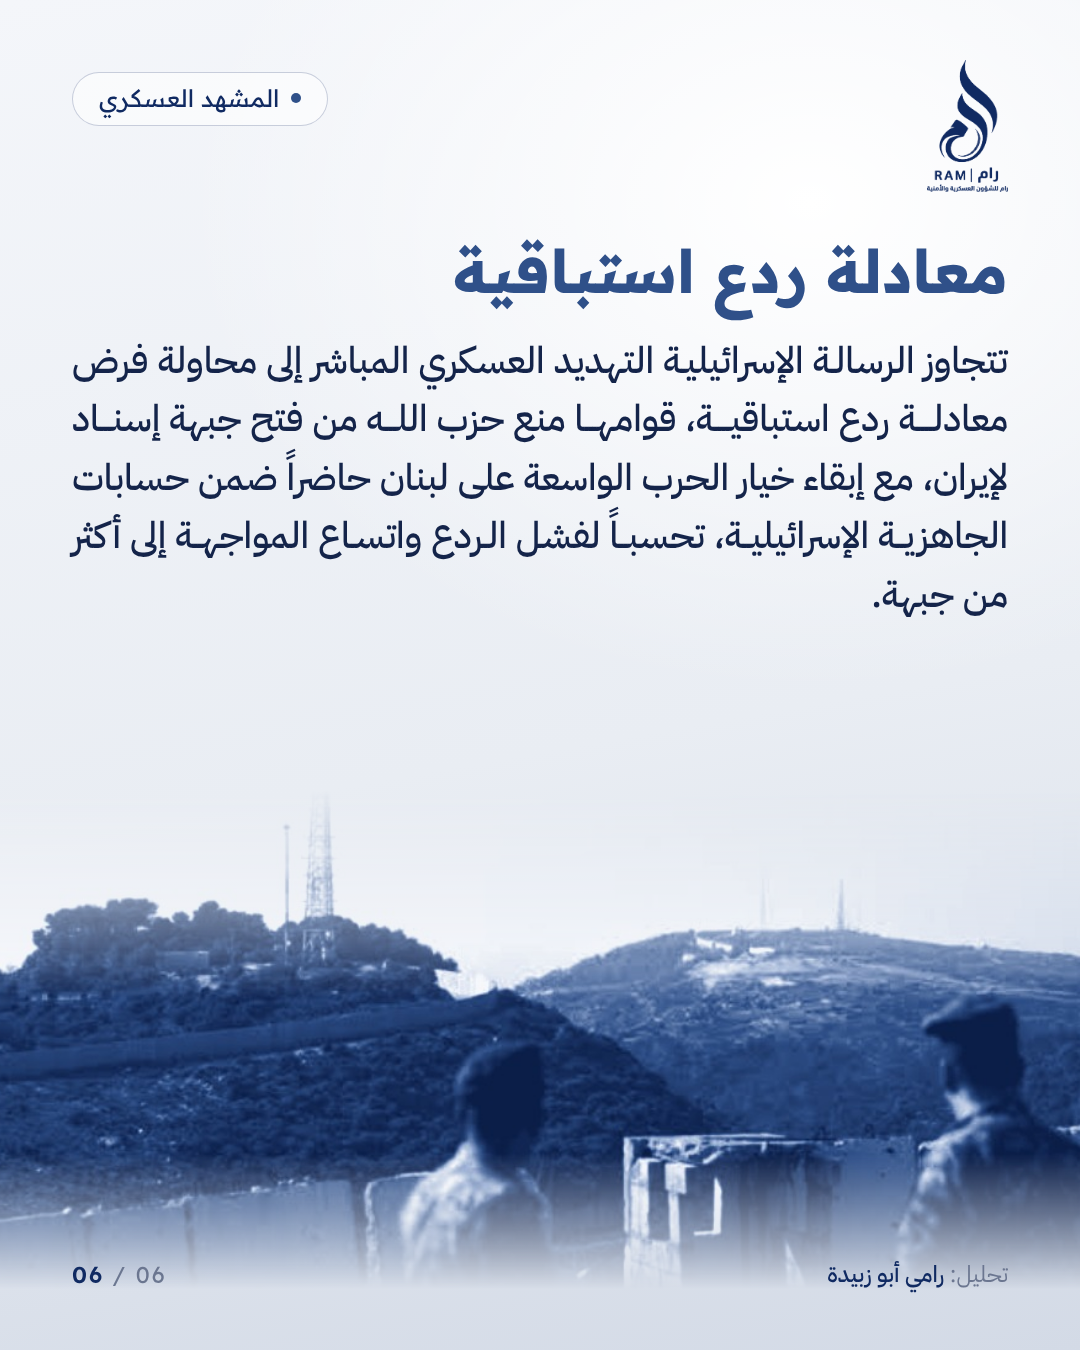
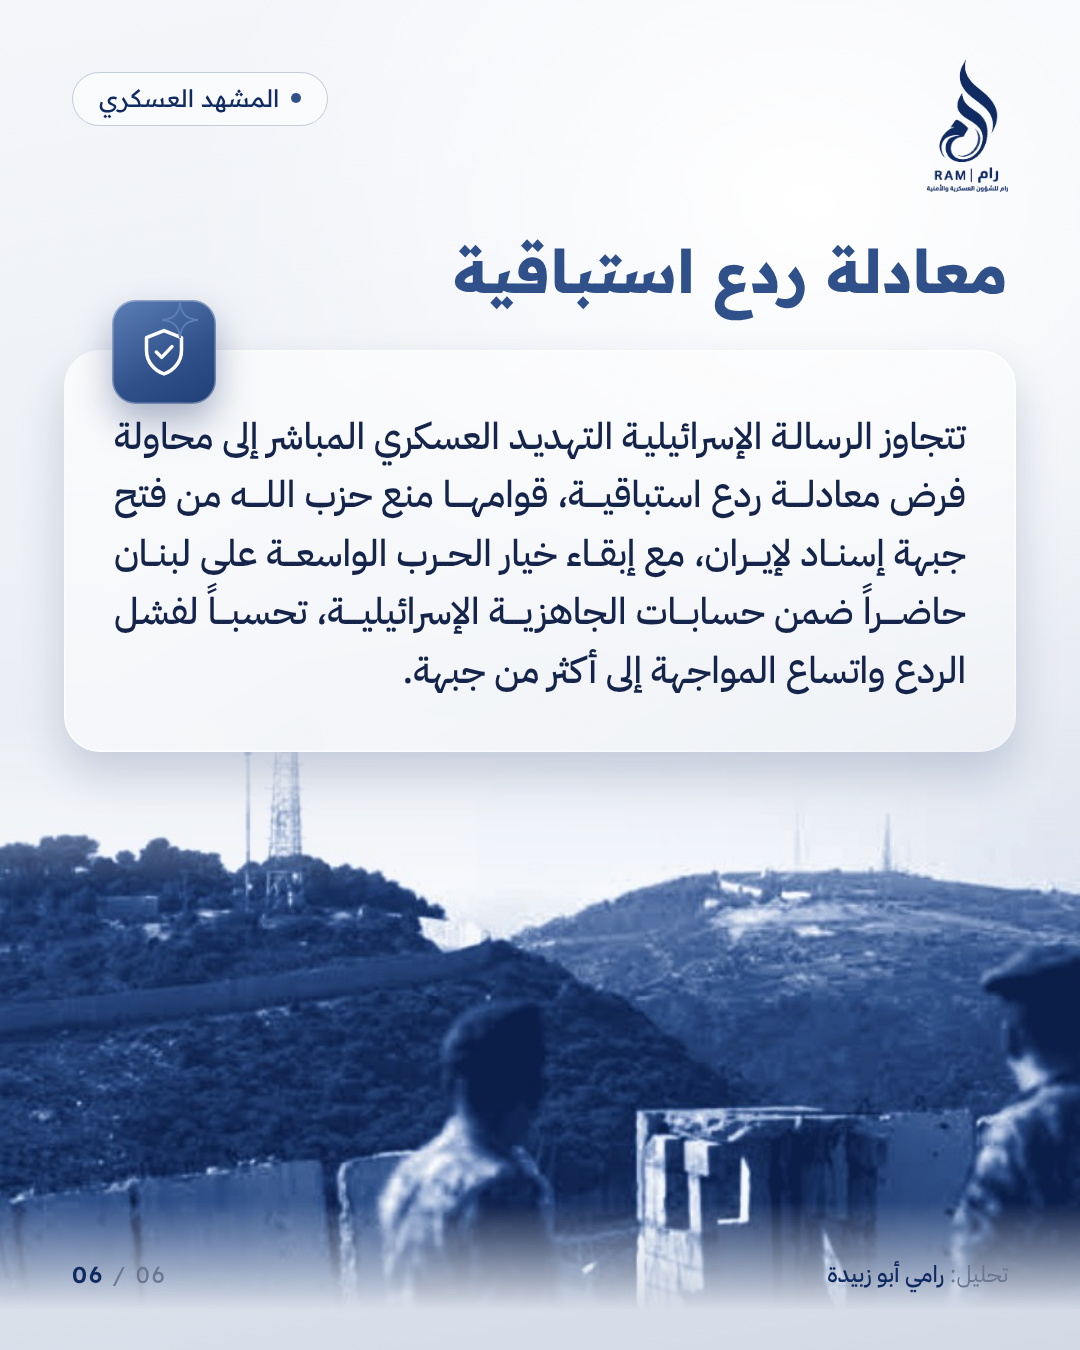
Glass-card layouts for slides 2-6 with per-slide variations
Claude-Session: https://claude.ai/code/session_01EW5L56NuYcnMJVgEDoh2db

Changed region(s): [[0.0, 0.56, 1.0, 0.9644], [0.0611, 0.2178, 0.9472, 0.5289]]

diff --git a/carousel/carousel.html b/carousel/carousel.html
@@ -221,35 +221,17 @@ body{background:#333;font-family:var(--b);color:#fff;display:flex;flex-direction
 
 <!-- ============ 2. ============ -->
 <section class="slide light" id="s2">
-  <div class="photo" style="height:520px;background-image:url(photos/port-light.jpg);background-position:center 60%"></div>
+  <div class="photo" style="height:860px;background-image:url(photos/port-light.jpg);background-position:center 60%;-webkit-mask:linear-gradient(180deg,transparent 0%,#000 30%,#000 82%,transparent 100%);mask:linear-gradient(180deg,transparent 0%,#000 30%,#000 82%,transparent 100%);"></div>
   <img class="logo" src="assets/logo-navy-full.png" alt="رام">
   <div class="tag"><i></i>المشهد العسكري</div>
-  <div class="art">
+  <div class="gcard" style="top:250px">
     <div class="atitle">ماذا كشفت «معاريف»؟</div>
     <div class="jp">كشفت صحيفة «معاريف» العبرية أن جيش الاحتلال أعدّ خططاً لاحتلال مدن لبنانية، من بينها صور وصيدا والنبطية، وفرض حصار بحري على ميناءَي بيروت وطرابلس، ما يعكس مستوى متقدماً من الاستعداد العسكري لسيناريوهات تصعيد واسعة قد تمتد إلى الجبهة اللبنانية.</div>
     <div class="hook">فهل هي خطط للتنفيذ؟</div>
+    <div class="gbadge" style="left:44px;bottom:-48px"><svg viewBox="0 0 24 24" fill="none" stroke="#fff" stroke-width="1.5" stroke-linecap="round" stroke-linejoin="round"><path d="M4 5.5h12.5v13H6a2 2 0 0 1-2-2z M16.5 9H20v7.5a2 2 0 0 1-2 2h-1.5 M7 9h6.5 M7 12h6.5 M7 15h4"/></svg></div>
   </div>
-  <div class="foot">
-    <div>تحليل: <b>رامي أبو زبيدة</b></div>
-    <div class="pg"><em>02</em> / 06</div>
-  </div>
-</section>
-
-<!-- ============ 2-تجربة: لوح زجاجي ============ -->
-<section class="slide light" id="s2t">
-  <div class="photo" style="height:860px;background-image:url(photos/port-light.jpg);background-position:center 60%;-webkit-mask:linear-gradient(180deg,transparent 0%,#000 30%,#000 82%,transparent 100%);mask:linear-gradient(180deg,transparent 0%,#000 30%,#000 82%,transparent 100%)"></div>
-  <img class="logo" src="assets/logo-navy-full.png" alt="رام">
-  <div class="tag"><i></i>المشهد العسكري</div>
-
-  <div class="gcard">
-    <div class="atitle">ماذا كشفت «معاريف»؟</div>
-    <div class="jp">كشفت صحيفة «معاريف» العبرية أن جيش الاحتلال أعدّ خططاً لاحتلال مدن لبنانية، من بينها صور وصيدا والنبطية، وفرض حصار بحري على ميناءَي بيروت وطرابلس، ما يعكس مستوى متقدماً من الاستعداد العسكري لسيناريوهات تصعيد واسعة قد تمتد إلى الجبهة اللبنانية.</div>
-    <div class="hook">فهل هي خطط للتنفيذ؟</div>
-    <div class="gbadge"><svg viewBox="0 0 24 24"><path d="M4 5.5h12.5v13H6a2 2 0 0 1-2-2z M16.5 9H20v7.5a2 2 0 0 1-2 2h-1.5 M7 9h6.5 M7 12h6.5 M7 15h4" fill="none" stroke="#fff" stroke-width="1.5" stroke-linecap="round" stroke-linejoin="round"/></svg></div>
-  </div>
-  <svg class="spark2" style="left:150px;top:196px" width="54" height="54" viewBox="0 0 40 40"><path d="M20 2 C21 14 26 19 38 20 C26 21 21 26 20 38 C19 26 14 21 2 20 C14 19 19 14 20 2Z" fill="none" stroke="#5D7FB8" stroke-width="1.8"/></svg>
-  <svg class="spark2" style="left:118px;top:244px" width="26" height="26" viewBox="0 0 40 40"><path d="M20 2 C21 14 26 19 38 20 C26 21 21 26 20 38 C19 26 14 21 2 20 C14 19 19 14 20 2Z" fill="none" stroke="#5D7FB8" stroke-width="2.2"/></svg>
-
+<svg class="spark2" style="left:150px;top:196px" width="52" height="52" viewBox="0 0 40 40"><path d="M20 2 C21 14 26 19 38 20 C26 21 21 26 20 38 C19 26 14 21 2 20 C14 19 19 14 20 2Z" fill="none" stroke="#5D7FB8" stroke-width="1.9"/></svg>
+<svg class="spark2" style="left:118px;top:244px" width="26" height="26" viewBox="0 0 40 40"><path d="M20 2 C21 14 26 19 38 20 C26 21 21 26 20 38 C19 26 14 21 2 20 C14 19 19 14 20 2Z" fill="none" stroke="#5D7FB8" stroke-width="1.9"/></svg>
   <div class="foot">
     <div>تحليل: <b>رامي أبو زبيدة</b></div>
     <div class="pg"><em>02</em> / 06</div>
@@ -258,14 +240,16 @@ body{background:#333;font-family:var(--b);color:#fff;display:flex;flex-direction
 
 <!-- ============ 3. ============ -->
 <section class="slide light" id="s3">
-  <div class="photo" style="height:500px;background-image:url(photos/warroom-light.jpg);background-position:center 30%"></div>
+  <div class="photo" style="height:640px;background-image:url(photos/warroom-light.jpg);background-position:center 30%;-webkit-mask:linear-gradient(180deg,transparent 0%,#000 30%,#000 82%,transparent 100%);mask:linear-gradient(180deg,transparent 0%,#000 30%,#000 82%,transparent 100%);"></div>
   <img class="logo" src="assets/logo-navy-full.png" alt="رام">
   <div class="tag"><i></i>المشهد العسكري</div>
-  <div class="art">
+  <div class="gcard" style="top:260px;left:150px">
     <div class="atitle">الخطة لا تعني قرار الحرب</div>
     <div class="jp">من الضروري التمييز بين إعداد الخطط العسكرية واتخاذ القرار السياسي والعسكري بتنفيذها؛ فهذه التحركات تندرج في إطار الجاهزية العملياتية، وتوظيف التهديد كأداة للردع والتأثير في حسابات حزب الله، في ظل تصاعد الحديث عن مواجهة أميركية إسرائيلية محتملة مع إيران.</div>
     <div class="hook">فما الذي تخشاه إسرائيل؟</div>
+    <div class="gbadge" style="left:-44px;top:-44px"><svg viewBox="0 0 24 24" fill="none" stroke="#fff" stroke-width="1.5" stroke-linecap="round" stroke-linejoin="round"><circle cx="12" cy="12" r="7.5"/><circle cx="12" cy="12" r="2.5"/><path d="M12 2.5v4 M12 17.5v4 M2.5 12h4 M17.5 12h4"/></svg></div>
   </div>
+<svg class="spark2" style="left:70px;top:350px" width="40" height="40" viewBox="0 0 40 40"><path d="M20 2 C21 14 26 19 38 20 C26 21 21 26 20 38 C19 26 14 21 2 20 C14 19 19 14 20 2Z" fill="none" stroke="#5D7FB8" stroke-width="1.9"/></svg>
   <div class="foot">
     <div>تحليل: <b>رامي أبو زبيدة</b></div>
     <div class="pg"><em>03</em> / 06</div>
@@ -274,14 +258,17 @@ body{background:#333;font-family:var(--b);color:#fff;display:flex;flex-direction
 
 <!-- ============ 4. ============ -->
 <section class="slide light" id="s4">
-  <div class="photo" style="height:480px;background-image:url(photos/dome-light.jpg);background-position:center 40%"></div>
+  <div class="photo" style="height:640px;background-image:url(photos/dome-light.jpg);background-position:center 35%;-webkit-mask:linear-gradient(180deg,transparent 0%,#000 30%,#000 82%,transparent 100%);mask:linear-gradient(180deg,transparent 0%,#000 30%,#000 82%,transparent 100%);top:140px;bottom:auto"></div>
   <img class="logo" src="assets/logo-navy-full.png" alt="رام">
   <div class="tag"><i></i>المشهد العسكري</div>
-  <div class="art">
+  <div class="gcard" style="top:575px">
     <div class="atitle">المعضلة الإسرائيلية</div>
     <div class="jp">تكمن المعضلة الإسرائيلية في كيفية تجنّب الانزلاق إلى حرب متعددة الجبهات، في الوقت الذي تستعد فيه لاحتمالات اتساع المواجهة، وهو ما يضع قدراتها العسكرية أمام اختبار معقد. ومن هنا يمكن قراءة التهديدات كمحاولة لتحييد حزب الله مسبقاً، برفع كلفة تدخله في أي مواجهة ضد إيران.</div>
     <div class="hook">فلماذا هذه المدن تحديداً؟</div>
+    <div class="gbadge" style="right:48px;top:-50px"><svg viewBox="0 0 24 24" fill="none" stroke="#fff" stroke-width="1.5" stroke-linecap="round" stroke-linejoin="round"><path d="M12 4v15.5 M8 19.5h8 M5 7.5h14 M5 7.5l-2.6 5.5h5.2z M19 7.5l-2.6 5.5h5.2z"/></svg></div>
   </div>
+<svg class="spark2" style="left:820px;top:470px" width="52" height="52" viewBox="0 0 40 40"><path d="M20 2 C21 14 26 19 38 20 C26 21 21 26 20 38 C19 26 14 21 2 20 C14 19 19 14 20 2Z" fill="none" stroke="#5D7FB8" stroke-width="1.9"/></svg>
+<svg class="spark2" style="left:890px;top:515px" width="24" height="24" viewBox="0 0 40 40"><path d="M20 2 C21 14 26 19 38 20 C26 21 21 26 20 38 C19 26 14 21 2 20 C14 19 19 14 20 2Z" fill="none" stroke="#5D7FB8" stroke-width="1.9"/></svg>
   <div class="foot">
     <div>تحليل: <b>رامي أبو زبيدة</b></div>
     <div class="pg"><em>04</em> / 06</div>
@@ -290,7 +277,7 @@ body{background:#333;font-family:var(--b);color:#fff;display:flex;flex-direction
 
 <!-- ============ 5. ============ -->
 <section class="slide light" id="s5">
-  <svg style="position:absolute;left:300px;bottom:70px" width="480" height="500" viewBox="-120 -10 540 560">
+  <svg style="position:absolute;left:330px;bottom:62px" width="400" height="400" viewBox="-120 -10 540 560">
     <ellipse cx="150" cy="300" rx="280" ry="260" fill="url(#pglowL)" opacity=".5"/>
     <use href="#lb" fill="url(#gfillL)" stroke="#2F5089" stroke-width="2.5"/>
     <g fill="none" stroke="#5D7FB8" stroke-width="2.5" stroke-dasharray="9 8">
@@ -308,11 +295,14 @@ body{background:#333;font-family:var(--b);color:#fff;display:flex;flex-direction
   </svg>
   <img class="logo" src="assets/logo-navy-full.png" alt="رام">
   <div class="tag"><i></i>المشهد العسكري</div>
-  <div class="art">
+  <div class="gcard" style="top:250px">
     <div class="atitle">دلالات الأهداف</div>
     <div class="jp">اختيار صور وصيدا والنبطية يتجاوز سيناريوهات التوغّل المحدود في المناطق الحدودية، ليعكس الاستعداد لتوسيع العمليات البرية نحو عمق لبنان. أما التلويح بحصار ميناءَي بيروت وطرابلس، فيشير إلى توسيع الضغط ليشمل البنية الاقتصادية واللوجستية اللبنانية، لا القدرات العسكرية لحزب الله فقط.</div>
     <div class="hook">فما الرسالة الإسرائيلية؟</div>
+    <div class="gbadge" style="right:48px;bottom:-48px"><svg viewBox="0 0 24 24" fill="none" stroke="#fff" stroke-width="1.5" stroke-linecap="round" stroke-linejoin="round"><path d="M9 4.5 3.5 6.5v13l5.5-2 6 2 5.5-2v-13l-5.5 2z M9 4.5v13 M15 6.5v13"/></svg></div>
   </div>
+<svg class="spark2" style="left:150px;top:196px" width="52" height="52" viewBox="0 0 40 40"><path d="M20 2 C21 14 26 19 38 20 C26 21 21 26 20 38 C19 26 14 21 2 20 C14 19 19 14 20 2Z" fill="none" stroke="#5D7FB8" stroke-width="1.9"/></svg>
+<svg class="spark2" style="left:118px;top:244px" width="26" height="26" viewBox="0 0 40 40"><path d="M20 2 C21 14 26 19 38 20 C26 21 21 26 20 38 C19 26 14 21 2 20 C14 19 19 14 20 2Z" fill="none" stroke="#5D7FB8" stroke-width="1.9"/></svg>
   <div class="foot">
     <div>تحليل: <b>رامي أبو زبيدة</b></div>
     <div class="pg"><em>05</em> / 06</div>
@@ -321,13 +311,15 @@ body{background:#333;font-family:var(--b);color:#fff;display:flex;flex-direction
 
 <!-- ============ 6. ============ -->
 <section class="slide light" id="s6">
-  <div class="photo" style="height:520px;background-image:url(photos/border-light.jpg);background-position:center 40%"></div>
+  <div class="photo" style="height:600px;background-image:url(photos/border-light.jpg);background-position:center 40%;-webkit-mask:linear-gradient(180deg,transparent 0%,#000 30%,#000 82%,transparent 100%);mask:linear-gradient(180deg,transparent 0%,#000 30%,#000 82%,transparent 100%);"></div>
   <img class="logo" src="assets/logo-navy-full.png" alt="رام">
   <div class="tag"><i></i>المشهد العسكري</div>
-  <div class="art">
-    <div class="atitle">معادلة ردع استباقية</div>
+  <div class="art" style="top:232px"><div class="atitle" style="margin:0">معادلة ردع استباقية</div></div>
+  <div class="gcard" style="top:350px;padding-top:58px">
     <div class="jp">تتجاوز الرسالة الإسرائيلية التهديد العسكري المباشر إلى محاولة فرض معادلة ردع استباقية، قوامها منع حزب الله من فتح جبهة إسناد لإيران، مع إبقاء خيار الحرب الواسعة على لبنان حاضراً ضمن حسابات الجاهزية الإسرائيلية، تحسباً لفشل الردع واتساع المواجهة إلى أكثر من جبهة.</div>
+    <div class="gbadge" style="left:48px;top:-50px"><svg viewBox="0 0 24 24" fill="none" stroke="#fff" stroke-width="1.5" stroke-linecap="round" stroke-linejoin="round"><path d="M12 2.8l7.5 3v5.4c0 5-3.3 8.7-7.5 10.2C7.8 19.9 4.5 16.2 4.5 11.2V5.8z"/><path d="M8.7 12l2.3 2.3 4.4-4.6"/></svg></div>
   </div>
+<svg class="spark2" style="left:160px;top:300px" width="40" height="40" viewBox="0 0 40 40"><path d="M20 2 C21 14 26 19 38 20 C26 21 21 26 20 38 C19 26 14 21 2 20 C14 19 19 14 20 2Z" fill="none" stroke="#5D7FB8" stroke-width="1.9"/></svg>
   <div class="foot">
     <div>تحليل: <b>رامي أبو زبيدة</b></div>
     <div class="pg"><em>06</em> / 06</div>
